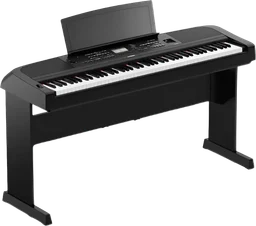
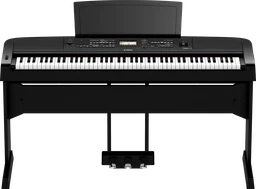
fix: LT25 sem estoque nacional, DGX-670 com estante e pedaleira e links de 18/11
- fender-mustang-lt25: o anúncio de a3dc587 (meli.la/1sX2ka8, R$ 1.368) é
  importado dos EUA e soma ~R$ 1.058 de imposto e ICMS no checkout (~R$ 2.427).
  O JSON volta ao anúncio nacional encerrado (último preço R$ 2.299) e o post
  amplificador-fender-e-bom tira o LT25 do topo: Frontman 20G vira a entrada e
  Mustang GTX50 a opção de modelagem. Tabela do Spark Mini sem o preço velho.
- yamaha-dgx-670: meli.la/2v3Bn3X -> meli.la/2ZGs83v (R$ 9.779). O anúncio
  anterior dizia na descrição que a estante não acompanha; o novo tem a ficha
  DGX670B+L300B+LP1B. Post cita a pedaleira LP-1B. Foto nova.
- titas Martin 0-18: 0-18 e 000-10E não existem novos no ML; similar passa a ser
  o Martin 000 Jr-E Sapele (meli.la/1m7zf5V -> meli.la/16roKBh, R$ 9.990).
- memphis-ac-39: o link 2R7MGku voltou (o catálogo trocou de vendedor); anúncio
  marcado de novo como ativo, R$ 521,55.

diff --git a/src/data/bandas/titas.md b/src/data/bandas/titas.md
@@ -80,8 +80,8 @@ integrantes:
         original:
           nome: Martin 0-18
           preco: ~R$ 11.199
-          similar: "Martin 000-10E"
-          urlAfiliado: https://meli.la/1m7zf5V
+          similar: "Martin 000 Jr-E Sapele"
+          urlAfiliado: https://meli.la/16roKBh
         low:
           nome: Yamaha FG800
           preco: ~R$ 2.055
